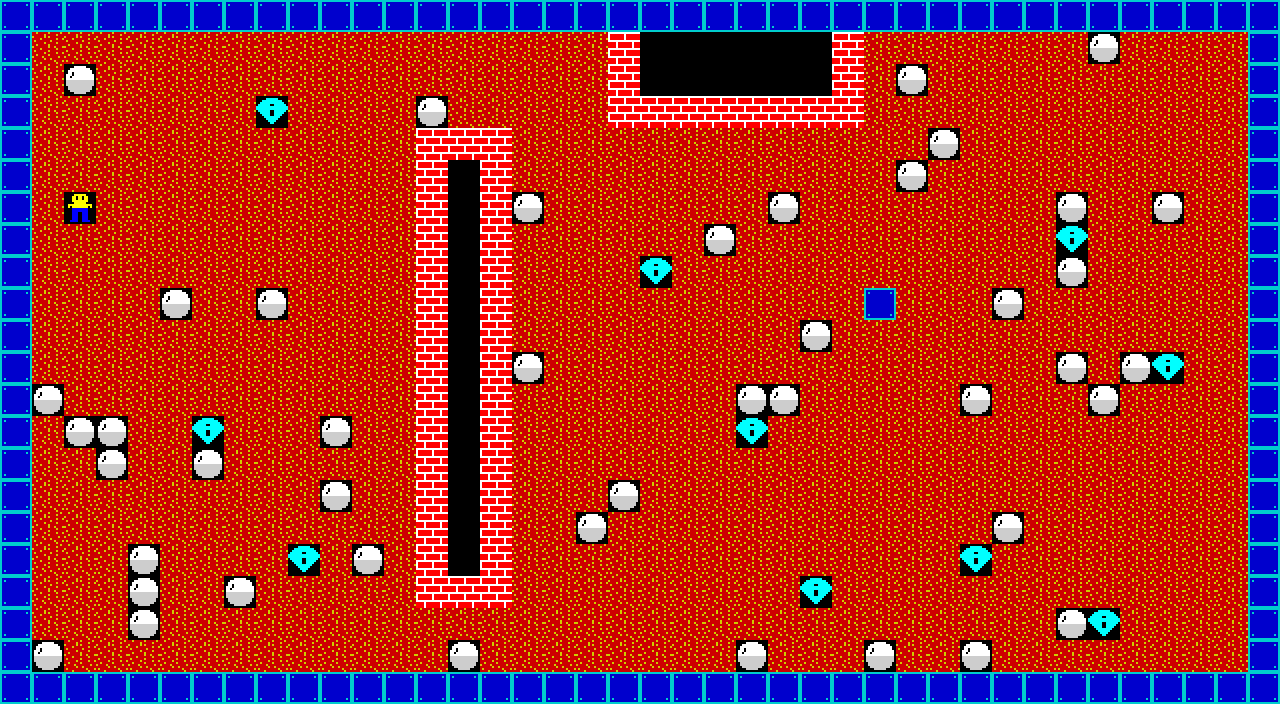
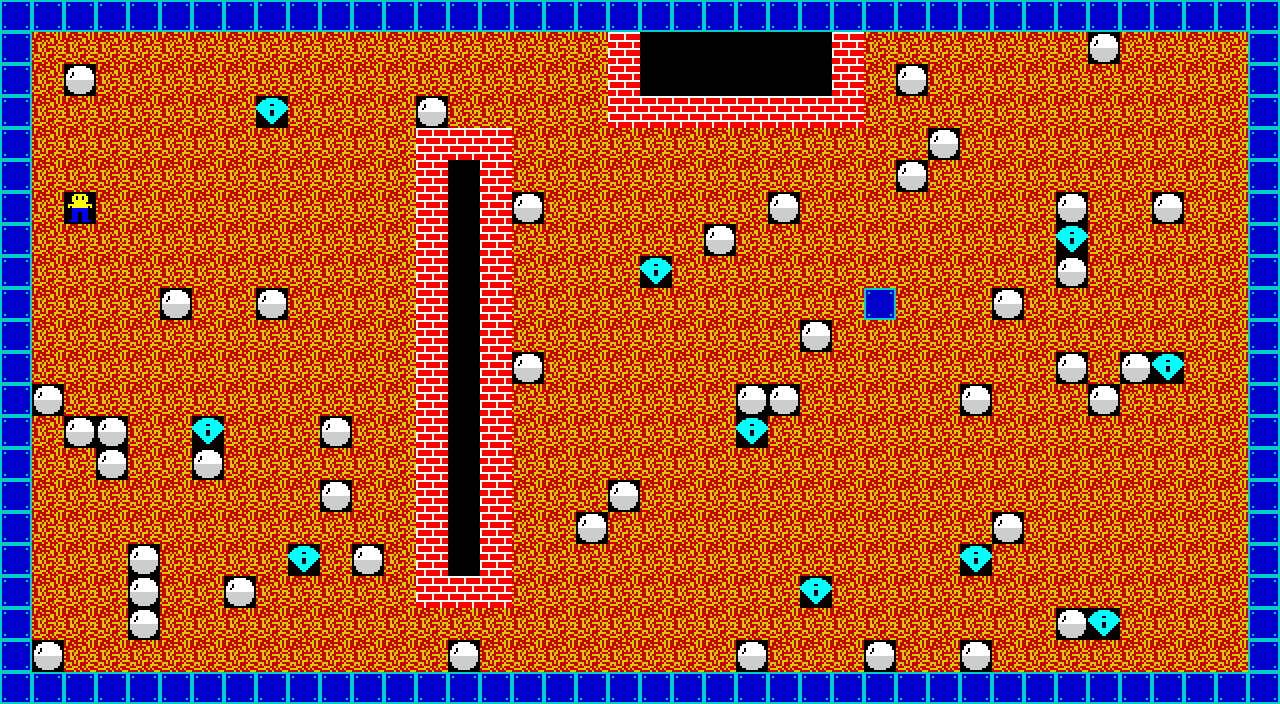
Optimizations

diff --git a/src/asm/projects/boulderdash/tools/gen_tiles.py b/src/asm/projects/boulderdash/tools/gen_tiles.py
@@ -5,22 +5,22 @@ import sys
 EMPTY = ["................"] * 16
 
 DIRT = [
-    "..#.....#.....#.",
-    "......#.....#...",
-    "#.....#.#.......",
-    "....#.......#..#",
-    ".#.......#......",
-    "......#.....#...",
-    "..#.....#.......",
-    "#.......#..#...#",
-    "....#.......#...",
-    ".#......#.......",
-    "......#.....#..#",
-    "..#.....#.......",
-    "#....#.......#..",
-    "......#..#......",
-    ".#.........#...#",
-    "....#.......#...",
+    ".##....##.#.#.#.",
+    ".#..#......##.#.",
+    ".#...#.##...#.#.",
+    "...#.....##.#.#.",
+    "#....#.#.##..#..",
+    "..###.#.#.#..###",
+    "#..#.##.....#...",
+    "...#.#..####.###",
+    "#..##.#....#.#.#",
+    "...##.#..#..#..#",
+    "#....#.###.#.###",
+    ".###.#.#....#...",
+    ".#.#...#...####.",
+    "#...###..#.#...#",
+    ".####..#..#.#...",
+    ".....#..#....###",
 ]
 
 BRICK = [
